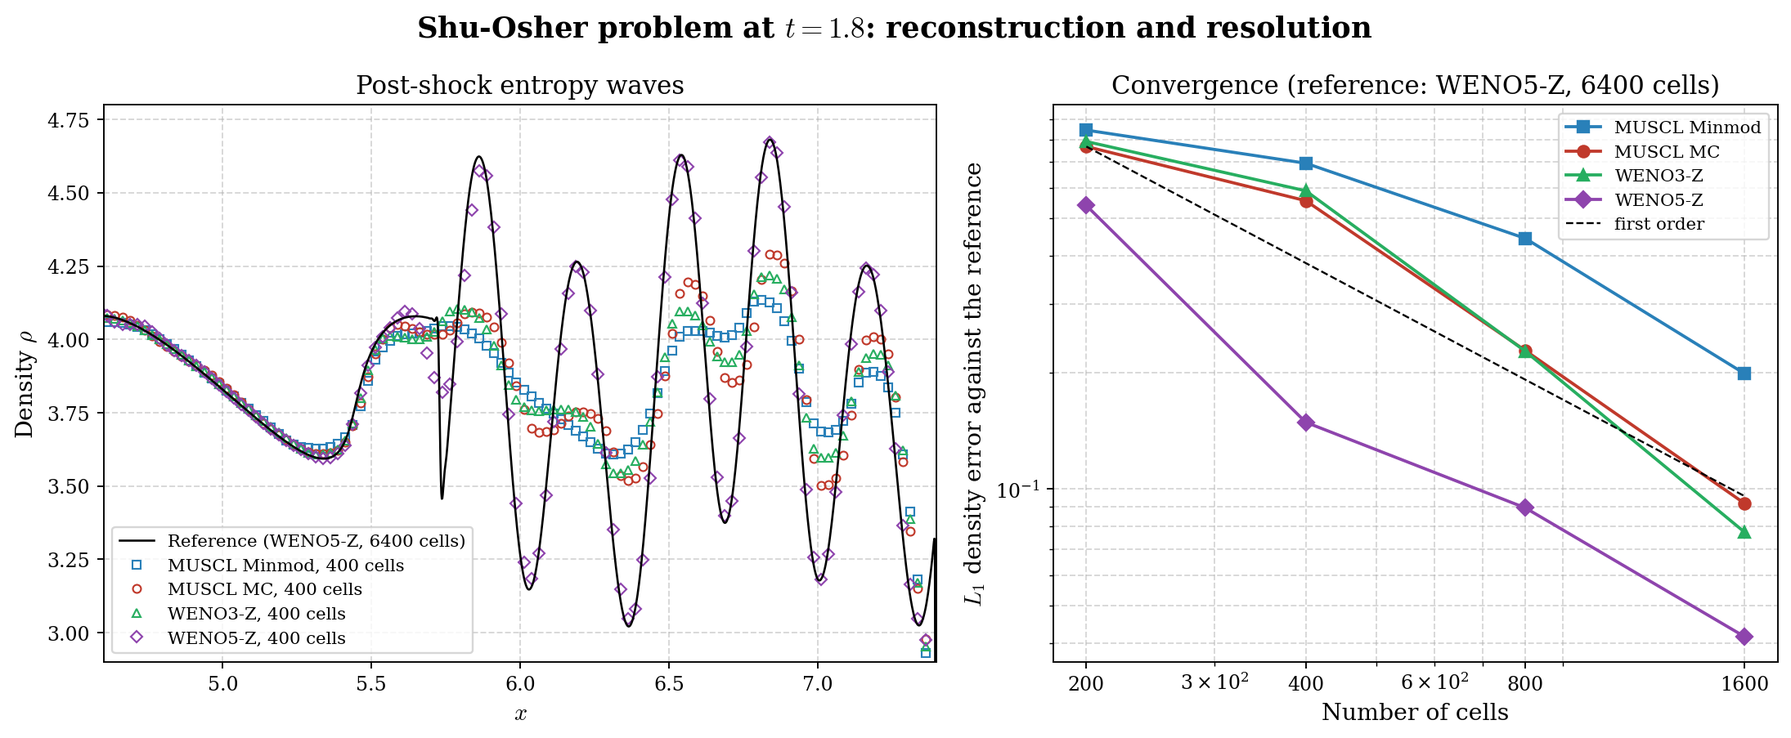
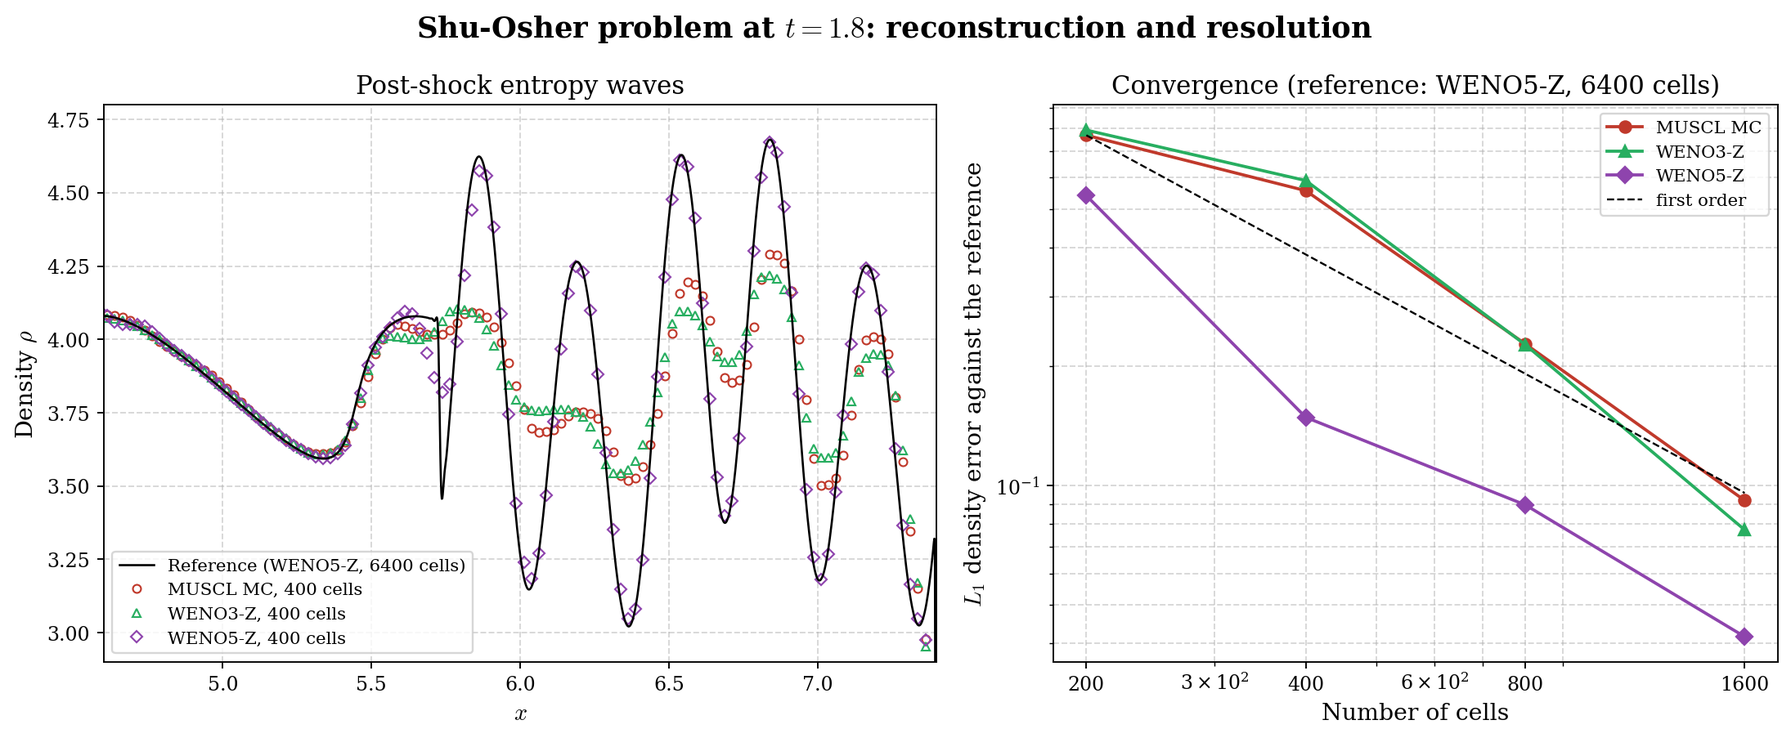
Docs: sphere page, octree formulation in the AMR page, Shu-Osher without Minmod, spectrum / V&V figures, review and paper proposals [skip ci]

diff --git a/cases/validation/features/ibm_sphere.py b/cases/validation/features/ibm_sphere.py
@@ -82,6 +82,45 @@ def final_cd(run_dir):
     return float(cd[-1]), float(abs(cd[-1] - cd[-6]) / abs(cd[-1]))   # last value, and its change over the last five rows
 
 
+def figure(args, sizes, out):
+    """ibm_sphere.png: drag histories, drag against the resolution, and the speed on the mid-plane z = Lz/2 of the finest ghost run."""
+    plt = study.use_style()
+    fig, (a1, a2, a3) = plt.subplots(1, 3, figsize=(16, 4.4), gridspec_kw={"width_ratios": [1, 1, 1.5]})
+    col = {"mask": "#c0392b", "ghost": "#27ae60"}
+    for method in ("mask", "ghost"):
+        for n, ls in zip(sizes, (":", "-")):
+            d = fenice.read_monitor(study.case_output(study.study_dir(STUDY) / f"{method}_{n}"))
+            a1.plot(d["t"], d["Cd"], ls=ls, color=col[method], label=f"{method}, {n} cells / D")
+    a1.set_ylim(2.5, 4.5)
+    a1.set_xlabel("$t$")
+    a1.set_ylabel("$C_d$")
+    a1.set_title("Drag history")
+    a1.legend(fontsize=8)
+    for method in ("mask", "ghost"):
+        a2.plot(1.0 / np.array(sizes), [r[0] for r in out[method]], "o-", color=col[method], ms=7, label=method)
+    a2.set_xlabel("cell size / $D$")
+    a2.set_ylabel("$C_d$ at $t = 30$")
+    a2.set_xlim(0, 0.12)
+    a2.set_title("Drag against resolution")
+    a2.legend()
+    run = study.case_output(study.study_dir(STUDY) / f"ghost_{sizes[-1]}")
+    f = fenice.read_vtr(fenice.read_pvd(run)[-1][1])
+    k = f["nz"] // 2
+    v = f["Velocity"]
+    speed = 0.5 * (np.linalg.norm(v[k - 1], axis=-1) + np.linalg.norm(v[k], axis=-1)) / 1.0   # cells k-1 and k straddle z = Lz/2
+    m = a3.pcolormesh(f["x"], f["y"], speed, cmap="viridis", shading="flat", vmin=0.0, vmax=float(speed.max()))
+    th = np.linspace(0, 2 * np.pi, 200)
+    a3.plot(2.0 + 0.5 * D * np.cos(th), 1.5 + 0.5 * D * np.sin(th), "w-", lw=1)
+    a3.set_aspect("equal")
+    a3.set_xlabel("$x$")
+    a3.set_ylabel("$y$")
+    a3.set_title(f"$|\\mathbf{{u}}| / U$ on $z = L_z/2$ (ghost wall, {sizes[-1]} cells / D)")
+    a3.grid(False)
+    fig.colorbar(m, ax=a3, fraction=0.03, pad=0.02)
+    plt.tight_layout()
+    study.save(fig, STUDY, "ibm_sphere.png", args.docs)
+
+
 def main():
     ap = study.parser(__doc__.splitlines()[0])
     args = ap.parse_args()
@@ -103,6 +142,7 @@ def main():
     print(f"change of Cd between the meshes: mask {dm:.4f}, ghost {dg:.4f} (ratio {out['ratio']:.2f}, band {BAND_RATIO}, "
           f"{'pass' if out['pass_ratio'] else 'FAIL'}); range band {BAND_RANGE}: {'pass' if out['pass_range'] else 'FAIL'}")
     fenice.write_summary(STUDY, out)
+    figure(args, sizes, out)
     print("ALL BANDS PASSED" if out["passed"] else "SOME BANDS FAILED")
     return 0 if out["passed"] else 1
 

diff --git a/cases/validation/benchmarks/shu_osher_schemes.py b/cases/validation/benchmarks/shu_osher_schemes.py
@@ -1,9 +1,9 @@
-"""Shu-Osher shock / entropy-wave interaction: the reconstruction (MUSCL limiters, WENO3-Z, WENO5-Z) at four resolutions.
+"""Shu-Osher shock / entropy-wave interaction: the reconstruction (MUSCL-MC, WENO3-Z, WENO5-Z) at four resolutions.
 
     python cases/validation/benchmarks/shu_osher_schemes.py            # results/validation/shu_osher_schemes/
     python cases/validation/benchmarks/shu_osher_schemes.py --docs     # also docs/img/shu_osher_schemes*.png
 
-Runs the "Shu-Osher Test" case (t = 1.8) with MUSCL Minmod and MC (SSP-RK2), WENO3-Z and WENO5-Z (SSP-RK3) on 200, 400, 800 and
+Runs the "Shu-Osher Test" case (t = 1.8) with MUSCL-MC (SSP-RK2), WENO3-Z and WENO5-Z (SSP-RK3) on 200, 400, 800 and
 1600 cells. There is no closed-form solution, so two references are used, both on 6400 cells: MC (the reference of shu_osher.py) and
 WENO5-Z (CFL 0.3). The L1 density error of each run is measured against the reference averaged onto its grid; the table prints both,
 so the dependence of the ranking on the reference is visible (a MUSCL-MC reference favours MUSCL-MC a little, a WENO5-Z one WENO5-Z).
@@ -19,7 +19,6 @@ STUDY, CASE = "shu_osher_schemes", "Shu-Osher Test"
 GRIDS, N_REF, L = [200, 400, 800, 1600], 6400, 10.0
 RK2, RK3 = "time_scheme=SSP Runge-Kutta 2", "time_scheme=SSP Runge-Kutta 3"
 SCHEMES = {   # label: (tag, sets, colour, marker)
-    "MUSCL Minmod": ("Minmod", ("reconstruction=muscl", "muscl_limiter=Minmod", RK2), "#2980b9", "s"),
     "MUSCL MC": ("MC", ("reconstruction=muscl", "muscl_limiter=MC", RK2), "#c0392b", "o"),
     "WENO3-Z": ("WENO3Z", ("reconstruction=weno3", RK3), "#27ae60", "^"),
     "WENO5-Z": ("WENO5Z", ("reconstruction=weno5", RK3), "#8e44ad", "D"),
@@ -85,7 +84,7 @@ def main():
     a1.set_xlim(0, L)
     a1.set_xlabel("$x$")
     a1.set_ylabel(r"Density $\rho$")
-    a1.set_title(r"Shu-Osher problem, $t = 1.8$: the four schemes on 400 cells", fontsize=14, fontweight="bold")
+    a1.set_title(r"Shu-Osher problem, $t = 1.8$: MUSCL-MC, WENO3-Z and WENO5-Z on 400 cells", fontsize=14, fontweight="bold")
     a1.set_ylim(0.6, 5.0)
     a1.legend(loc="lower left", fontsize=9)
     plt.tight_layout()

diff --git a/cases/validation/benchmarks/spectra_application.py b/cases/validation/benchmarks/spectra_application.py
@@ -166,12 +166,17 @@ def main():
     fenice.write_summary(STUDY, out)
 
     fig, axs = plt.subplots(1, 3, figsize=(15, 4.4))
+    ymin = np.inf
     for n, c in ((32, "#2980b9"), (96, "#27ae60")):
         k, E = tg[n]["spectrum"]
-        m = (k >= 1) & (k <= n // 2)
+        m = (k >= 1) & (k <= n // 2) & (E > 0)   # up to the Nyquist shell n/2; empty shells (E = 0) cannot be drawn on a log axis
         axs[0].loglog(k[m], E[m], "o-", ms=3, color=c, label=f"{n}$^3$, $t$ = {tg[n]['t_snap']:.1f}")
+        axs[0].axvline(n // 2, color=c, ls=":", lw=1)
+        ymin = min(ymin, E[m & (k >= 2)].min())
     kk = np.array([3.0, 20.0])
     axs[0].loglog(kk, 0.35 * kk ** (-5 / 3), "k--", lw=1, label="$k^{-5/3}$ (guide)")
+    axs[0].set_ylim(ymin / 3, 0.3)   # the k = 1 shell of the vortex is empty to round-off and would stretch the axis to 1e-17
+    axs[0].text(0.97, 0.97, "dotted: Nyquist $k = n/2$", transform=axs[0].transAxes, ha="right", va="top", fontsize=8)
     axs[0].set_xlabel("shell $k$")
     axs[0].set_ylabel("$E(k)$")
     axs[0].legend()

diff --git a/cases/validation/benchmarks/vv20.py b/cases/validation/benchmarks/vv20.py
@@ -65,6 +65,7 @@ def main():
             ax.plot([rel], [y], "o", mfc="white", mec="C3", ms=8)
             ax.annotate("not assessable", (rel, y), xytext=(8, 4), textcoords="offset points", fontsize=8, color="C3")
     ax.axvline(0, color="k", lw=0.8)
+    ax.set_xlim(-5, 5)   # symmetric and wide: the not-assessable point and the bars no longer set a scale that makes the errors look large
     ax.set_yticks(ys, [f"{r.name}\n{r.study}" for r, _ in results], fontsize=8)
     ax.set_xlabel(r"comparison error $E / |D|$ [%], interval $\pm U_{val}$")
     ax.set_title("Validation uncertainty (V&V 20): the modelling error lies in $E \\pm U_{val}$", fontsize=11)

diff --git a/docs/proposals/repository-review.md b/docs/proposals/repository-review.md
@@ -1,0 +1,89 @@
+# Repository review: structural improvements and future-proofing
+
+Status: proposal, nothing implemented. Based on the file sizes and layout of the repository at the 3-D octree Q7 commit and on the
+invariants written down in `CLAUDE.md`; it is a map of candidates, not an audit line by line. Each item gives the evidence, the
+benefit, the risk to the bit-reproducibility rule, and a size. The user decides what goes ahead.
+
+## 1. Duplicated 2-D / 3-D kernels (largest recurring cost)
+
+* Evidence: `assemble` / `assemble_3d`, `viscous_residual` / `viscous_residual_3d`, the uniform and the AMR copies of the viscous
+  eigenvalue expression ("six copies ... must stay identical"), the scalar and AVX2 twins of the Riemann and viscous kernels. Every
+  physics change is made two to six times and guarded by a bit-for-bit test.
+* Proposal: do not merge the 2-D path into the 3-D one (the 2-D bits are a requirement). Instead put each *expression that must stay
+  identical* in one inline function in one header (viscous speed bound, shock-blend sensor, time-step length), called by every copy.
+  Operation order is then fixed in one place, and the "keep the copies together" rule becomes a compile-time fact.
+* Risk: low if each function is moved verbatim and the golden dumps (default, `NO_SIMD`, `FULL_REBUILD`) are compared. Size: small, one
+  expression at a time.
+
+## 2. Very large translation units
+
+* Evidence: `Simulation.cpp` 2807 lines, `CellFlux.cpp` 2094, `Physics.cpp` 1273. `CellParallel` was already split in four files with
+  good results.
+* Proposal: split `Simulation.cpp` along its phases (setup and initial condition, the step loop, output and monitors, restart and hot
+  start) and `CellFlux.cpp` into the face-list build and the residual kernels. No behaviour change; shorter incremental builds and
+  reviews.
+* Risk: none for the numerics (moves only). Do it when no long branch (the Q8 work) touches those files, to avoid conflicts.
+
+## 3. One source of truth for parameters
+
+* Evidence: a new parameter must be added to `Params` / `SimParams`, `section_table()` in `CaseFile.cpp`, the table in
+  `docs/source/guide/parameters.md`, and is picked up by the GUI through `--print-config`. A test enforces only the case-file part.
+* Proposal: a single declarative table (name, type, default, section, one-line description, allowed values) from which the parser, the
+  case-file sections, `--print-config`, the parameter table of the docs and the GUI tooltips are generated; the docs table becomes a
+  `{{parameters}}` directive like `{{defaults:}}`. The `reconstruction` / `use_muscl` alias shows why: renames need a central place.
+* Risk: low; behaviour is checked by the existing tests that read every parameter. Size: medium.
+
+## 4. Versioned file formats
+
+* Evidence: checkpoints and `final.npz` have grown by keys (`nz`, `leaf_k`, five columns in 3-D, the lagged wave-speed bound); old
+  files are accepted by tolerating missing keys.
+* Proposal: an explicit `format_version` key in the checkpoint, the dump and `leaf_meta`, with a single reader that maps old versions
+  to the current one and refuses unknown future ones with a clear message. A test keeps one file of every released version.
+* Risk: none for the numerics. Size: small.
+
+## 5. Dimension as a compile-time parameter in the AMR kernels (only if 3-D AMR becomes a main use)
+
+* Evidence: the engine is run-time `dim`; 3-D kernels sit beside the 2-D ones. Q8 will say how much the 3-D path costs against the
+  uniform solver.
+* Proposal: decide after Q8. If the 3-D kernels are slower for dimensional-branch reasons, templates on `dim` (with the 2-D
+  instantiation required to give the same bits) are the tool; if the cost is memory traffic, they are not.
+* Risk: medium; do not start before the Q8 measurements.
+
+## 6. Portability layer for accelerators
+
+* Evidence: the solver is OpenMP + MPI with AVX2 intrinsics for two kernel families. The scalar fallback keeps ARM working.
+* Proposal: none now. If a GPU is ever wanted, the fused uniform residual (reconstruction + Riemann + balance per row of faces, no face
+  storage) is the natural unit to port first; the face-list AMR engine is not. Write the decision down rather than design for it.
+
+## 7. Reference states and golden dumps
+
+* Evidence: 74 regression references, regenerated by hand after deliberate changes, golden-dump comparison done by an ad-hoc procedure
+  described in prose (`amr/golden.py` exists).
+* Proposal: one command that regenerates *only the named* references, writes the old-versus-new difference per reference to a report
+  (which cases moved, by how much), and refuses to run on a dirty tree. The reasons for a regeneration are recorded in the commit
+  message from that report. This makes the "only regenerate after a deliberate, validated change" rule enforceable.
+* Risk: none. Size: small.
+
+## 8. Documentation and project guidance
+
+* `CLAUDE.md` is not under version control (it lives next to the repository), is long, and has accumulated internal contradictions
+  (reference counts 74 / 55 / 38 in different places, a path typo). Proposal: track it, keep the invariants (bit-reproducibility, the
+  twin-kernel rules, the MPI == serial rule) in it, and move measurements and history to `docs/design/`.
+* `docs/design/` holds five long files; `amr-distributed-handoff.md` (a hand-over note) is the candidate to fold into
+  `amr-distributed.md` or retire after its content is checked. Nothing else is obviously stale.
+* Validation pages repeat the same run commands and the same pass/fail bands in the page, in `testing.md` and in the script
+  docstring. Proposal: the script docstring is the source and the pages link to it.
+
+## 9. Continuous integration time
+
+* Evidence: CI runs unit tests, regression serial and on 4 ranks, `amr_mpi.py --check`, `ibm_ghost.py --check` and the MMS quick
+  study on four platforms. Each addition (the 3-D AMR cases) lengthens it.
+* Proposal: measure the time per step of the workflow and move the slowest bitwise checks that do not depend on the platform
+  (rank counts 5-7) to the nightly workflow, keeping 1, 2 and 4 on every push. Decide with the measured times.
+
+## Suggested order
+
+1. Items 1 and 7 (they make existing rules mechanical and cost little), then 4.
+2. Items 3 and 8 together (one pass over parameters and project guidance).
+3. Item 2, in a quiet period between the long AMR branches.
+4. Items 5 and 6 only after Q8.

diff --git a/docs/source/cases/shu-osher.md b/docs/source/cases/shu-osher.md
@@ -24,43 +24,30 @@ $$\rho_R(x) = 1 + \varepsilon\sin\bigl(k(x - x_0)\bigr), \quad u_R = 0, \quad p_
 
 The fine-scale post-shock oscillations are physical: they appear in the exact reference of
 Titarev & Toro (2004). A too-diffusive scheme smears them, and a non-TVD scheme adds
-spurious oscillations at the shock. Good results need a high-resolution MUSCL limiter (MC
-or Van Leer), a TVD-preserving integrator (SSP-RK2) and $n_x \ge 400$. With $n_y = 2$, MPI
+spurious oscillations at the shock. Good results need a high-resolution reconstruction (MUSCL with the MC
+or Van Leer limiter, or WENO), a TVD-preserving integrator (SSP-RK2 / RK3) and $n_x \ge 400$. With $n_y = 2$, MPI
 uses the **X-direction** decomposition.
 
 ```powershell
 build\release\fenice.exe --case "Shu-Osher Test"
-build\release\fenice.exe --case "Shu-Osher Test" --set muscl_limiter=Minmod
-python cases\validation\benchmarks\shu_osher.py      # MC and Minmod, 200-1600 cells vs a 6400-cell reference
+build\release\fenice.exe --case "Shu-Osher Test" --set reconstruction=weno5 --set "time_scheme=SSP Runge-Kutta 3"
+python cases\validation\benchmarks\shu_osher_schemes.py   # MUSCL-MC, WENO3-Z, WENO5-Z, 200-1600 cells vs 6400 cells
 ```
 
 ## Default parameters
 
 {{defaults:Shu-Osher Test}}
 
-## Validation results
+## Validation results: MUSCL-MC, WENO3-Z and WENO5-Z
 
-There is no closed-form solution, so the reference is the MC run on 6400 cells, and the
-error of each grid is measured against the reference averaged onto it.
-
-<figure>
-<img src="{{root}}img/shu_osher.png" style="width:100%">
-<figcaption>Density at t = 1.8 with MC and Minmod on 400 (open markers) and 800 cells (filled); the inset zooms on the
-post-shock entropy waves, which Minmod flattens more. The script prints the L1 error against the reference
-(MC: 0.77, 0.55, 0.22, 0.085 on 200, 400, 800, 1600 cells; Minmod: 0.85, 0.69, 0.44, 0.19).
-The shock limits both limiters to about first order; MC stays about 2× more accurate.</figcaption>
-</figure>
-
-## Reconstruction: limiters and WENO
-
-`benchmarks/shu_osher_schemes.py` adds the two WENO-Z reconstructions (SSP-RK3) to the two limiters above, on the same four grids. Two
-references are used, both on 6400 cells: the MC run of the study above and a WENO5-Z run (CFL 0.3); the error of every run differs by
+There is no closed-form solution, so `benchmarks/shu_osher_schemes.py` compares MUSCL with the MC limiter (SSP-RK2) with the two
+WENO-Z reconstructions (SSP-RK3) on 200, 400, 800 and 1600 cells. Two references are used, both on 6400 cells: an MC run and a
+WENO5-Z run (CFL 0.3); the error of every run, measured against the reference averaged onto its grid, differs by
 at most 8 % between them (the table is in `results/validation/shu_osher_schemes/`), so the ranking does not depend on the reference.
 L1 density error against the WENO5-Z reference:
 
 | scheme | 200 | 400 | 800 | 1600 |
 |---|---:|---:|---:|---:|
-| MUSCL Minmod | 0.846 | 0.695 | 0.444 | 0.199 |
 | MUSCL MC | 0.767 | 0.556 | 0.228 | 0.092 |
 | WENO3-Z | 0.790 | 0.590 | 0.227 | 0.077 |
 | WENO5-Z | 0.540 | 0.149 | 0.089 | 0.042 |
@@ -81,10 +68,9 @@ Right: $L_1$ density error against the number of cells; the dashed line is first
   fifth-order reconstruction is worth about a factor two in resolution here.
 * **WENO3-Z** is no better than MC on 200-800 cells (0.79 against 0.77, 0.59 against 0.56) and 16 % better on 1600; it has the stencil
   of MUSCL, so on this problem it only buys what the third-order interior brings.
-* **Minmod** is the most diffusive on every grid.
 * **Order.** The observed orders between successive grids are scattered (0.3-1.9) and no scheme is asymptotic: the shock limits all of
   them, and the entropy waves are under-resolved on the coarse grids. The comparison is of the error at a given resolution, not of an order.
-* The WENO runs use SSP-RK3 and the case's CFL (0.4); the MUSCL ones SSP-RK2, as in the study above.
+* The WENO runs use SSP-RK3 and the case's CFL (0.4); the MUSCL ones SSP-RK2.
 
 ## References
 

diff --git a/docs/proposals/paper-restructure.md b/docs/proposals/paper-restructure.md
@@ -1,0 +1,47 @@
+# Paper restructure: outline proposal
+
+Status: proposal only; `fenice_paper/main.tex` is not touched. The paper's counts (references, tests, AMR figures) will change with
+the Q8 results of the 3-D octree work, so the rewrite should start after them. The current sections (from `main.tex`) are:
+Introduction, Software structure, Governing equations and discretisation (equations, mesh, solvers and reconstruction, fully discrete
+scheme, time integration, immersed boundaries), Bitwise reproducibility, Cell-based AMR, Code verification (MMS, time accuracy, exact
+solutions, strong shocks), Validation (cavity and GCI, 3-D Taylor-Green, cylinder and airfoil), Graphical interface, Performance
+(with the DG comparison), Limitations and outlook, Conclusions, and appendices (orders, sources in the code, WENO).
+
+## Problems of the present order
+
+1. The strongest idea of the code, *the same answer for any thread / rank count and a test that proves it*, sits in section 4,
+   after the discretisation, and the AMR section (the largest) does not say it extends that guarantee to a distributed adaptive mesh.
+2. Features added since (WENO3/5-Z, `boundary_order = 2`, the sharp ghost wall, the 3-D octree with MPI, spectral post-processing, the
+   mutation / fault-injection studies) live in an appendix or are missing from the main line; the reader meets them as exceptions.
+3. Verification and validation are separated from the feature they test, so the discretisation sections make claims that are
+   evidenced 15 pages later.
+4. The GUI section interrupts the numerical argument.
+
+## Proposed thread
+
+Claim: *a compact compressible solver whose every feature (higher-order reconstruction, immersed bodies, adaptive meshes in 2-D and
+3-D, MPI) is added under one rule, bitwise equality with the simpler path it extends, and is verified by tests that can fail.*
+
+1. **Introduction**: the gap, the claim above, the contributions as a list the later sections discharge one by one.
+2. **The design rule**: bitwise reproducibility as a requirement; the ladder of equalities (thread count, rank count, uniform vs level-0 AMR,
+   2-D vs extruded 3-D, fused vs two-pass residual, scalar vs vector kernels, restart and rank-count change). Short, with the test names.
+3. **Numerical method** (one section): equations, solvers, reconstruction (MUSCL, WENO-Z, boundary order), time integration and
+   the combined viscous time-step budget, immersed boundaries (mask and ghost wall).
+4. **Adaptive meshes in 2-D and 3-D**: leaf-based face-list engine, jump closure, subcycling and registers, the octree as the same
+   engine with $d = 3$ (table of what changes), distributed state and remesh. Put the 3-D measurements (Q8) here.
+5. **Verification**: MMS (space and time, with WENO and AMR), exact solutions, shocks, the fault-injection and mutation studies as
+   the evidence that the tests detect defects.
+6. **Validation**: cavity with GCI and V&V 20, Taylor-Green 2-D and 3-D (with spectra up to Nyquist and the numerical-dissipation share),
+   cylinder, airfoil, sphere; each result next to the claim it supports.
+7. **Performance**: uniform, AMR against uniform at equal accuracy, scaling, memory per rank; the DG comparison.
+8. **Limitations and outlook**; **Conclusions**.
+   Appendices: observed orders, WENO literature and limits, sources in the code. The GUI moves to a short paragraph in section 2 or an appendix.
+
+## Order of work
+
+1. Wait for Q8 and for the 3-D Taylor-Green / sphere presentation to settle.
+2. Rewrite sections 2 and 4 first (they carry the new thread); then fold the appendix material into 3 and 5.
+3. Regenerate every count from the repository (tests, references, studies) in one pass, at the end.
+
+Open choice for the author: whether the target journal accepts a longer paper that keeps all of the above, or whether verification
+should be cut to the MMS, the exact solutions and the mutation study with the rest in a supplement.

diff --git a/docs/source/cases/sphere.md b/docs/source/cases/sphere.md
@@ -1,0 +1,45 @@
+---
+title: Sphere in a channel - 3-D immersed boundary
+nav: Sphere (3-D IBM)
+section: Test cases
+order: 95
+---
+
+A sphere of diameter $D = 1$ in a $6 \times 3 \times 3$ channel with walls on four sides (8.7 % blockage), inflow at $x = 0$, Reynolds
+number $\mathrm{Re} = 20$ and Mach 0.3, run to $t = 30$, when the flow is steady. It is the 3-D check of the immersed boundary: the
+staircase **mask** against the sharp **ghost-cell wall** (`ibm_method = ghost`, trilinear image points over eight cells).
+
+There is no exact 3-D reference for this confined flow. An unbounded sphere at Re = 20 has $C_d \approx 2.6$ (Schiller-Naumann); the
+walls raise it, so the check is a sanity range ($2 \le C_d \le 4$) plus **self-convergence**: the ghost wall should change less
+between two meshes than the mask, whose effective size depends on the resolution.
+
+```powershell
+python cases\validation\features\ibm_sphere.py --docs      # 10 and 20 cells per diameter, mask and ghost
+```
+
+The study writes its own case file (`results/validation/ibm_sphere/`); there is no sphere folder under `cases/`.
+
+## Results
+
+<figure>
+<img src="{{root}}img/ibm_sphere.png" style="width:100%">
+<figcaption>Left: drag history for the two methods at 10 and 20 cells per diameter. Middle: $C_d$ at $t = 30$ against the cell size.
+Right: speed on the mid-plane $z = L_z/2$ with the ghost wall at 20 cells per diameter (the circle is the sphere); the wake is
+steady and symmetric.</figcaption>
+</figure>
+
+| method | $C_d$, 10 cells / D | $C_d$, 20 cells / D | change |
+|---|---:|---:|---:|
+| mask | 3.293 | 3.385 | 0.093 |
+| ghost wall | 3.460 | 3.514 | 0.054 |
+
+* Every run is settled ($|\Delta C_d| / C_d < 10^{-4}$ over the last rows).
+* The change of the ghost wall is 0.58 of the mask's. The band was fixed at 0.6 before the run, so the result is **marginal**: it
+  supports the ghost wall being less dependent on the mesh, but two meshes are not a convergence proof, and both methods still move
+  upward with refinement (the ghost wall by 1.6 %, the mask by 2.8 %).
+* The two methods have not met at 20 cells per diameter (3.51 against 3.39); a third mesh would be needed to say where each is going.
+* The serial and distributed runs of the sphere agree bit for bit (`ibm_ghost.py --check`, 2 to 7 ranks).
+
+## Related
+
+The sphere is also a regression reference of the sharp wall and of the 3-D adaptive mesh (see [AMR]({{root}}modules/AMR.html)).

diff --git a/README.md b/README.md
@@ -31,7 +31,8 @@ GUI, validation scripts and full documentation.
   with lift / drag monitoring.
 - **Time integration:** Explicit Euler, SSP-RK2 and SSP-RK3.
 - **Meshes:** uniform 2-D (`nz = 1`) or 3-D (`nz > 1`) grids, plus cell-based AMR (a quadtree in
-  2-D, an octree in 3-D) with subcycling, conservative flux replacement and 2:1 balance.
+  2-D, an octree in 3-D, one engine for both) with subcycling, conservative flux replacement, 2:1 balance,
+  immersed bodies, VTK output, bitwise restart and distributed MPI runs.
 - **Boundary conditions:** slip and no-slip walls, moving walls, velocity and mass-flow
   inlets, pressure outlets, transmissive and periodic.
 - **Parallelism:** OpenMP everywhere, plus MPI (strips of rows or columns; for AMR, the

diff --git a/docs/source/guide/testing.md b/docs/source/guide/testing.md
@@ -197,7 +197,7 @@ uncertainty of the reference too.
 | Script | Compares |
 |---|---|
 | `shu_osher.py` | Shu-Osher density, MC vs Minmod, convergence against a 6400-cell reference |
-| `shu_osher_schemes.py` | Shu-Osher with the limiters and WENO3-Z / WENO5-Z, two references |
+| `shu_osher_schemes.py` | Shu-Osher with MUSCL-MC and WENO3-Z / WENO5-Z, two references (the page's figures) |
 | `cavity.py` | cavity centrelines and vortex vs Ghia (1982), 32²-128², both orders |
 | `taylor_green_3d.py` | 3-D Taylor-Green energy, dissipation, vorticity, Q-criterion animation |
 | `vv20.py` | validation uncertainty (V&V 20): $E = S - D$ and $U_{val}$ of the cavity extrema against Ghia and the 3-D Taylor-Green peak against the DNS |
